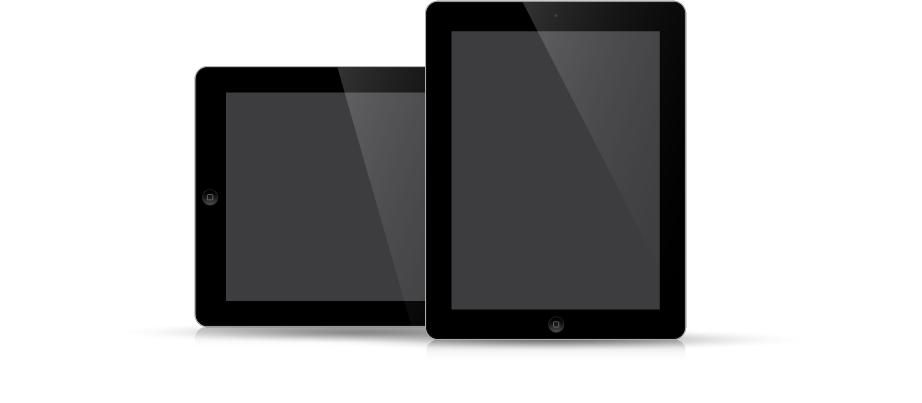
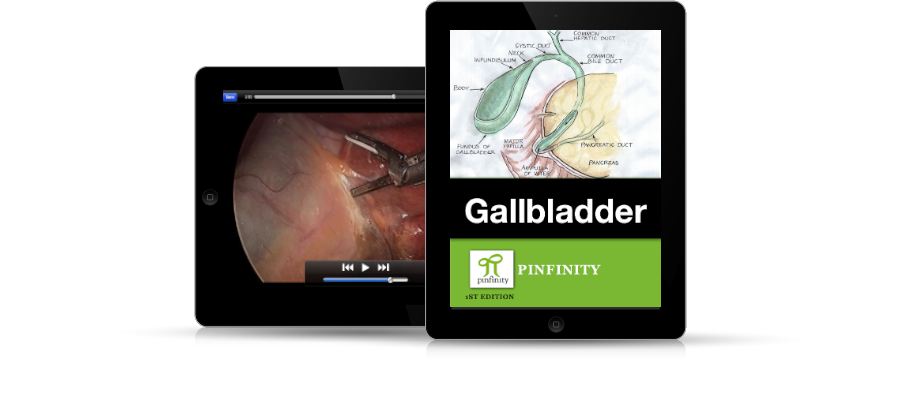
new images
On branch master

	modified:   assets/images/ipad-2.png
	new file:   assets/images/pinfinity-freedom-video.jpg
	new file:   assets/images/pinfinity-tutorial-video.jpg
	new file:   assets/images/video_play.png
	modified:   index.html

Changed region(s): [[0.243, 0.0596, 0.7289, 0.7742]]

diff --git a/index.html b/index.html
@@ -644,6 +644,10 @@ a, a:hover, a:active, a:visited {
 h1, h2, h3, h4 {
 	font-weight: 200;
 }
+.video-img {
+	border: 1px solid #ddd;
+}
+
 #container {
 	width: 1040px;
 	margin: 0 auto;
@@ -664,9 +668,6 @@ h1, h2, h3, h4 {
 }
 .hero-shot .boxa {
 	text-align: center;
-}
-.hero-shot .logo {
-	height: 150px;
 }
 .hero-shot .tagline {
 	font-size: 2.2em;
@@ -702,6 +703,7 @@ h1, h2, h3, h4 {
 .conversion .header {
 	font-size: 2em;
 	text-align: center;
+	margin-bottom: 0;
 }
 .conversion .media-box {
 	float: left;
@@ -900,14 +902,14 @@ h1, h2, h3, h4 {
 <div class="hero-shot row row1">
 	<div class="section boxa">
 		<h1 class="hidden">Pinfinity. Creating freely available multitouch medical learning tools.</h1>
-		<p class="logo"><img src="./assets/images/pinfinity.png" height="100%" /></p>
+		<p class="logo"><img src="./assets/images/pinfinity.png" height="150px" width="150px" /></p>
 		<h2 class="tagline">Freedom begins with your mind.</h2>
 		<p class="tagline-expand">
-		Pinfinity creates amazingly insightful digital learning tools and distributes them to you for free,
-		with no respect for the status quo.
+		Pinfinity creates amazingly insightful digital learning tools and
+		distributes them for free, with no respect for the status quo.
 		</p>
 
-		<h3 class="call-to-action">Begin exploring now.</h3>
+		<h3 class="call-to-action">Start exploring now.</h3>
 		<p class="call-to-action-subtext">
 		Download our first book, <em class="title">The Gallbladder</em>, free from iTunes</p>
 		<p class="bookstore-button">
@@ -921,7 +923,8 @@ h1, h2, h3, h4 {
 
 <div class="marketing row row2">
 	<div class="section boxa">
-		<iframe width="560" height="315" src="http://www.youtube.com/embed/zD7hIAwHiGQ" frameborder="0" allowfullscreen></iframe>
+		<img class="video-img" src="./assets/images/pinfinity-freedom-video.jpg" width="100%"
+			alt="Pinfinity Freedom Video" />
 	</div>
 	<div class="section boxb">
 		<h3 class="header">Neque porro quisquam est qui dolorem.</h3>
@@ -949,14 +952,15 @@ h1, h2, h3, h4 {
 		</p>
 	</div>
 	<div class="section boxb">
-		<object width="560" height="315"><param name="movie" value="http://www.youtube.com/v/QYZmse-E33s?hl=en_US&amp;version=3"></param><param name="allowFullScreen" value="true"></param><param name="allowscriptaccess" value="always"></param><embed src="http://www.youtube.com/v/QYZmse-E33s?hl=en_US&amp;version=3" type="application/x-shockwave-flash" width="560" height="315" allowscriptaccess="always" allowfullscreen="true"></embed></object>
+		<img class="video-img" src="./assets/images/pinfinity-tutorial-video.jpg" width="100%"
+			alt="Pinfinity Tutorial Video" />
 	</div>
 </div>
 
 <div class="conversion row row4">
 	<h2 class="header">Keep up to date with our progress.</h2>
 	<div class="media-box mboxa">
-		<a href="www.linkedin.com/pub/jeffrey-l-eakin-m-d/8/79a/338/">
+		<a href="https://www.linkedin.com/pub/jeffrey-l-eakin-m-d/8/79a/338/">
 		<h4 class="header2">Join Dr. Eakin on LinkedIn</h4>
 		<p class="content2">
 		LinkedIn is a great way to connect with influencial people in medicine and education.
